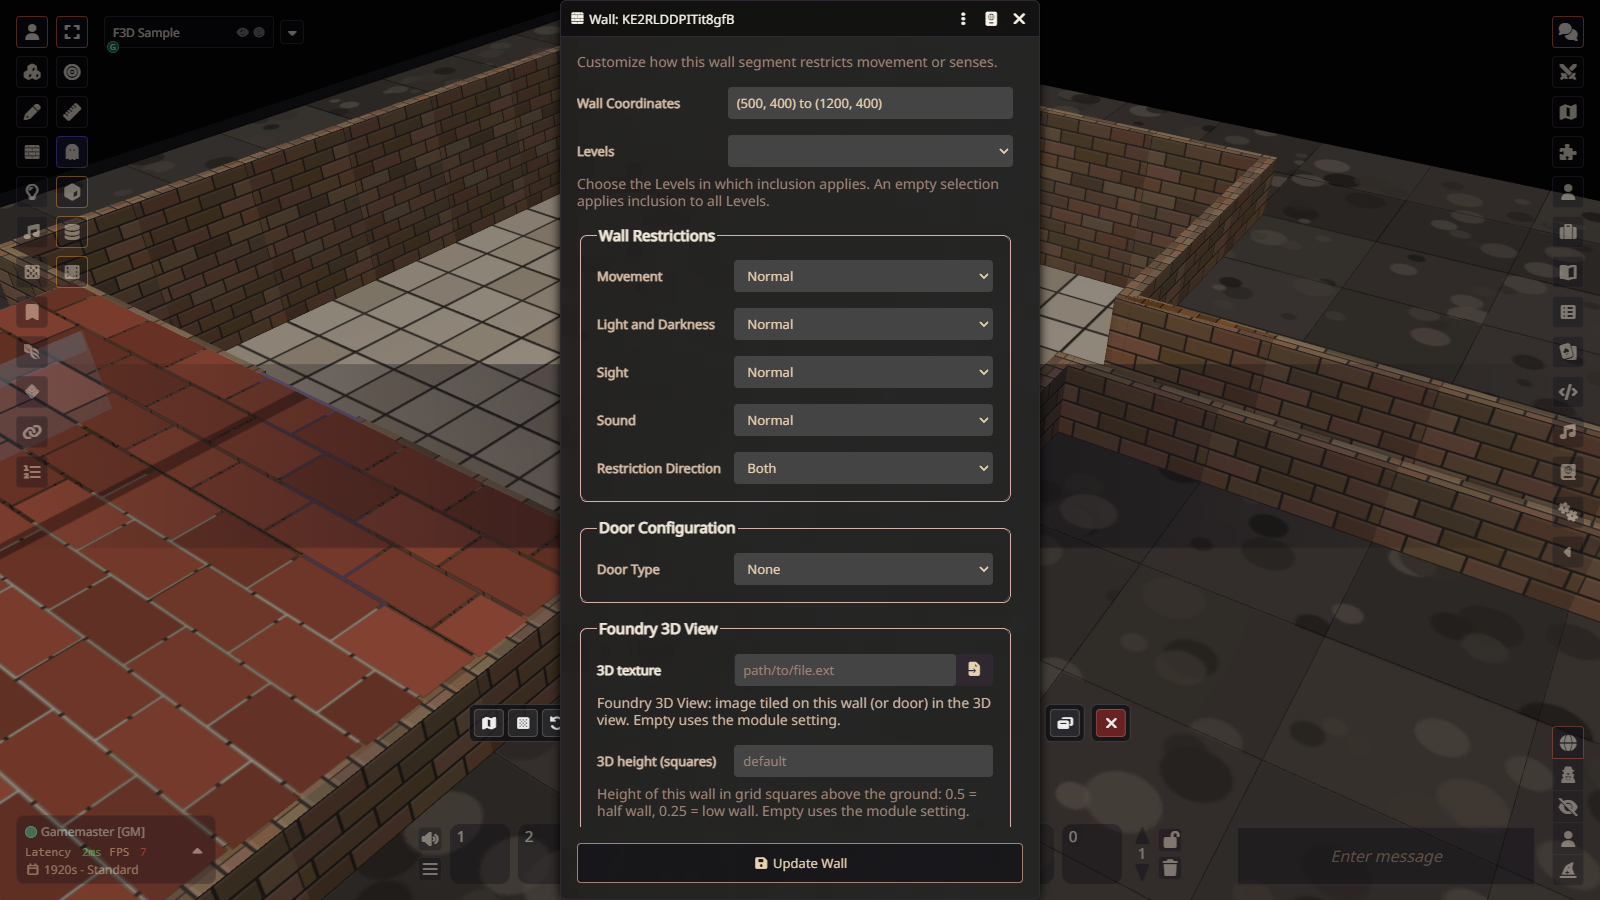
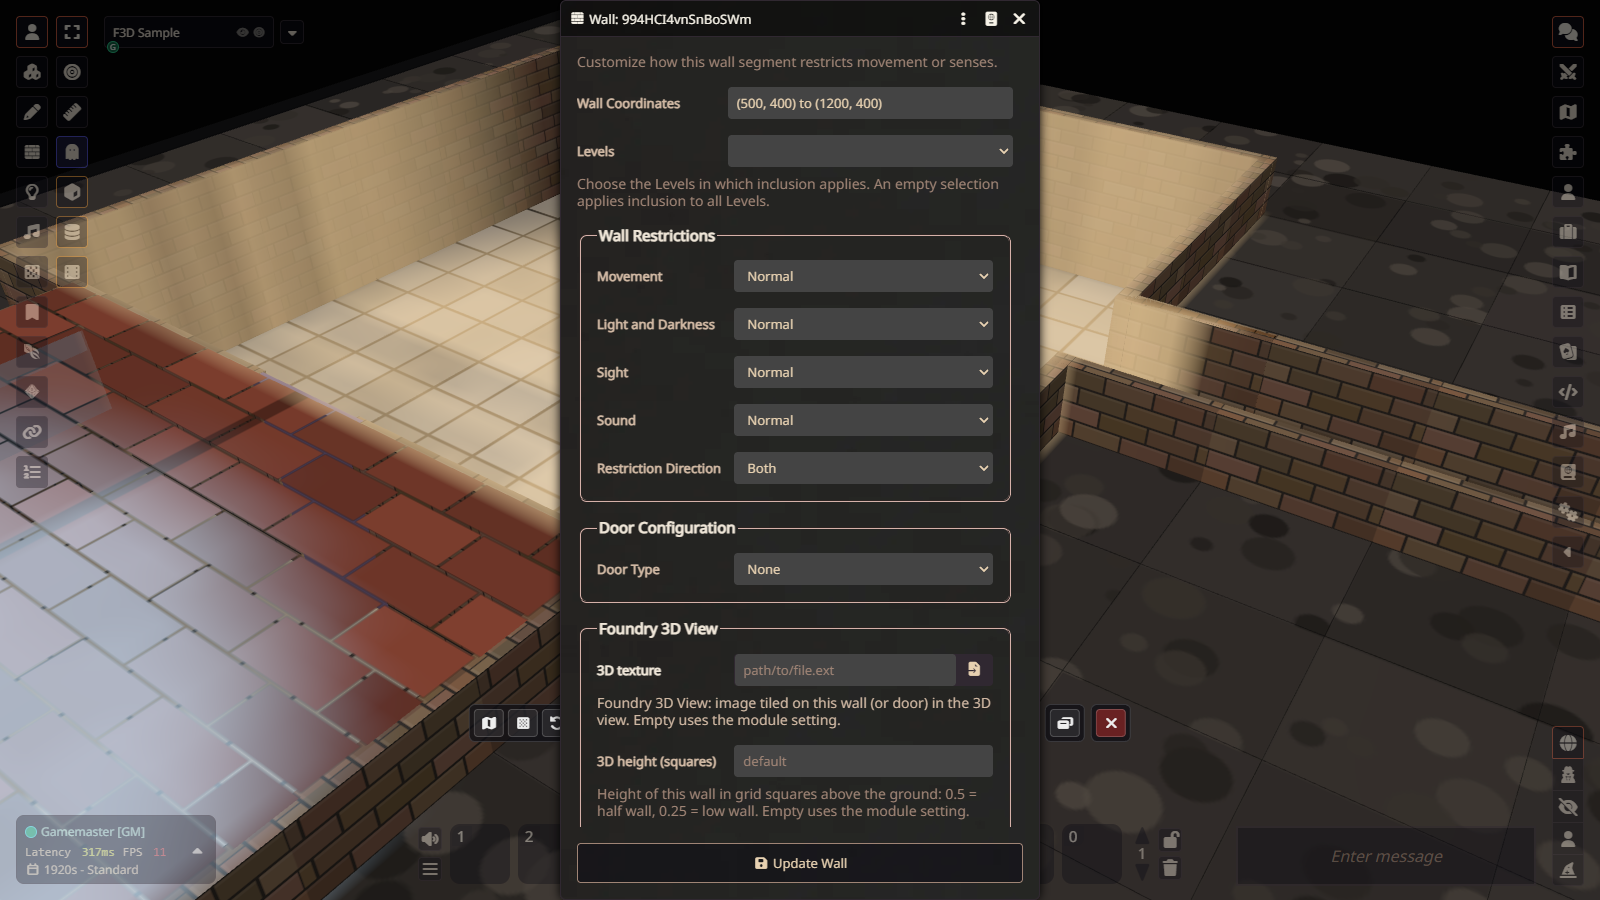
3D lighting and vision now come from Foundry's own rendering
- light-sampler: reads Foundry's illumination (over white = light factor),
  coloration and vision mask layers, downsized to the scene grid (up to 4
  samples per square) several times a second, while the 2D canvas behind
  the full-screen 3D view is framed on the scene (restored on close)
- 3D shading multiplies by the sampled light and screen-blends the light
  colour: animated/coloured/adaptive lights, darkness regions, global
  light and vision modes match the 2D canvas; computed light map remains
  the fallback (window mode)
- fix: the GM looking through a selected token now gets that token's
  vision in 3D (fog + hidden tokens); canvas.visibility.tokenVision only
  mirrors the scene setting, so active vision sources are checked
- e2e: Foundry lighting, light off darkens 3D, coloured light, GM token
  vision on/off; system welcome dialogs auto-closed during tests
  v14 78/78, v13 69/69

diff --git a/README.md b/README.md
@@ -30,8 +30,8 @@ toggle on and off.
 | Tokens | Token art is shown as a card on a base coloured by disposition. Cards follow Foundry's movement animation (`refreshToken`). Selected tokens get a yellow ring. **Sprite facing** (setting and toolbar): **Standee** turns toward the camera and leans back when seen from above. **Billboard** is always parallel to the screen, like **Final Fantasy Tactics / Doom** sprites. **Fixed** is a paper standee that follows the token's rotation. **Animated tokens:** video (webm) token art plays in 3D. |
 | **Directional & animated sprites (Doom-style)** | The Token config sheet (Appearance tab) can take a **sprite sheet**: rows are view directions (1, 4 or 8) and columns are animation frames. With 4 directions the rows are front, left, back, right. With 8 they are front, front-left, left, back-left, back, back-right, right, front-right. The 3D view picks the row from the angle between the token's facing (its rotation, 0 = facing down the map) and the camera. Columns loop at the fps you set. |
 | **Interaction in 3D** | **Click** a token you own to select it (Shift adds to the selection). Then **click a square** to move it: for players, walls block the move and a paused game blocks it too. **Hover** to see a **ruler** with the distance and the height difference; it uses `canvas.grid.measurePath`, so the scene's diagonal rule applies. **Click a door** to open or close it; locked doors are refused for players. **Right-click** or **Esc** releases the selection. Dragging still moves the camera. |
-| **Fog of war & vision** | For players (when the scene has token vision, and the world setting is on), each square is visible, explored or unseen. Visibility comes from Foundry's own `canvas.visibility.testVisibility`, so lights, darkvision, walls and vision modes all count. Explored squares are shown desaturated and dim. Unseen squares are black, and walls, roofs and upper floors over them are not drawn, so the map layout doesn't leak. The GM sees everything. |
-| **Lights & darkness (Foundry lighting)** | In darkness, each square is lit **bright, dim or dark by Foundry's real light sources**: ambient lights and token lights, read from `canvas.effects.lightSources` and clipped by walls with their own polygons. Darkness sources keep squares dark. Unlit squares take the scene darkness level. **Token vision:** for players, squares they see only through vision, such as darkvision, are drawn in **greys**, like Foundry's vision modes. Daylight or global illumination turns the light map off. Point lights still add the colour of nearby lights. This is a world setting. |
+| **Fog of war & vision** | The 3D view shows **what the selected token sees**. For players this is always on. For the **GM**, it applies while a token with vision is selected and switches off when it is released, just like the 2D canvas. Tokens the viewer can't see are hidden. Visibility is read from Foundry's own vision mask (or `testVisibility` as a fallback), so walls, lights, darkvision and vision modes all count. Explored squares stay dimmed for the session. Walls, roofs and upper floors over unseen squares are not drawn. |
+| **Lights & darkness (Foundry lighting)** | The 3D view uses **Foundry's own rendered lighting**. While the 3D view covers the screen, the 2D canvas behind it is framed on the whole scene. Several times a second, the module reads Foundry's illumination, coloured light and vision layers at up to 4 samples per square and applies them to the 3D terrain, walls, props and tokens. So animated lights, light colours, darkness, global illumination, darkness regions, vision modes and adaptive lights look the same as in 2D. In window mode, or if sampling isn't possible, it falls back to a light map computed from the light sources. World setting. |
 | **Tiles** | Floor tiles lie on the terrain, with rotation, mirroring, alpha and sort order. Overhead tiles (elevation at or above the scene's foreground elevation) become roofs at wall height. A roof fades out when your token is under it, when cutaway is on, or when the **Roofs** toggle is off. To players, hidden tiles are not shown. |
 | **3D models (props)** | In the Tile config sheet, choose a **built-in low-poly model** (tree, pine, bush, rock, crate, barrel, table, chair, bench, car, pillar, lamp post) or a **custom .glb/.gltf** file. The tile is drawn as that model, filling its footprint and following its rotation, with a height multiplier. Models stand on the terrain and respect fog and lighting. **Export:** the cubes button in the Tiles controls, or `game.modules.get("foundry-3d-view").api.exportModels()`, saves the built-in models as **.glb files** to `foundry-3d-view-models/`, ready to use as assets in Foundry or elsewhere. |
 | **Levels (v14)** | Native scene levels are supported. Each upper level is a floor plane at its elevation, using the level's image; transparent parts stay see-through. Walls, tiles and lights are placed by their `levels`, tokens by their `level`. A wall with no levels sits on the ground. **The 3D view follows the level you are viewing in Foundry.** When you switch level, the floors above it, and their walls and tokens, are hidden. Roofs use the viewed level's top as their height. The **Visible levels** selector starts at the viewed level and can show all levels. Players never see tokens on other levels (v14 gives them no placeable). Editing a level rebuilds the view. The background and scene colour are read from the levels, so the deprecated v14 `Scene#background` / `backgroundColor` / `foregroundElevation` getters are never touched. |
